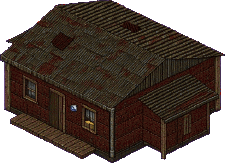
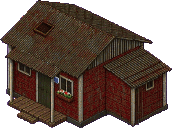
Builder 98: obrazky novych chatek podle noveho modelu (render + Grok), Lv1 hola bez truhliku
Model chatek se zmenil (cabin_layout.gd), mapa Builderu ukazovala stare vetsi chatky.
Ctyri pohledy kazdeho tieru znovu z iso_render, prekreslene Grokem (iso4_cabin_<n>_b),
Lv1 s vyslovnym "bez truhliku a rostlin", at je chuda.

diff --git a/tools/artgen/builder_prompts.py b/tools/artgen/builder_prompts.py
@@ -17,7 +17,7 @@ WHAT = {
 	"tent_1": "a small yellow A-frame camping tent with guy ropes and pegs",
 	"tent_2": "a bigger two-person ridge tent with a porch flap, guy ropes and pegs",
 	"tent_3": "a large family frame tent with a sewn-in porch and a little awning, guy ropes",
-	"cabin_1": "a small bare cabin of weathered grey planks under a rusty corrugated tin roof, a door between two small windows, a concrete block for a step, firewood stacked at the side",
+	"cabin_1": "a small bare cabin of weathered grey planks under a rusty corrugated tin roof, a door between two small windows, a concrete block for a step, firewood stacked at the side; bare and poor: no flower boxes, no plants, no curtains, no fence, nothing on the ground round it",
 	"cabin_2": "a small cabin of red-painted planks with white trim under a tin roof, a little porch with two posts and its own tin roof over the door, a flower box, a lower bathroom built on at one side with a small window",
 	"cabin_3": "a well kept cabin of dark stained planks with green shutters, a brick chimney, a TV aerial on the ridge, gutters, a deep porch with a bench and a lantern, a lower bathroom built on at one side",
 	"caravan_1": "an old Czech touring caravan, cream with a brown stripe, a striped awning, a tow bar",

diff --git a/TODO.md b/TODO.md
@@ -9,7 +9,7 @@
 - [x] One plan for the model and the room (`scripts/cabin_layout.gd`), every window a view out with a curtain that glints
 - [x] The tiers inside and out (boards, porch, annex, shutters, chimney/stove, aerial/TV, furniture)
 - [x] The jacket clear of the windows, no painted curtains under the drapes
-- [ ] Builder's pictures of the new cabins (Grok repaint `iso4_cabin_<n>_b` in the queue)
+- [x] Builder's pictures of the new cabins (renders repainted by Grok, Lv1 kept bare)
 - [ ] The bathroom is cramped from its doorway: a better view or a bigger annex
 
 ## RECEPTION WINDOWS — 2026-10-21 (the user: "the reception's windows have no depth from outside; curtains drawn, lights out, the players inside at the PC or going to the other room: all of it seen from outside and in step")
